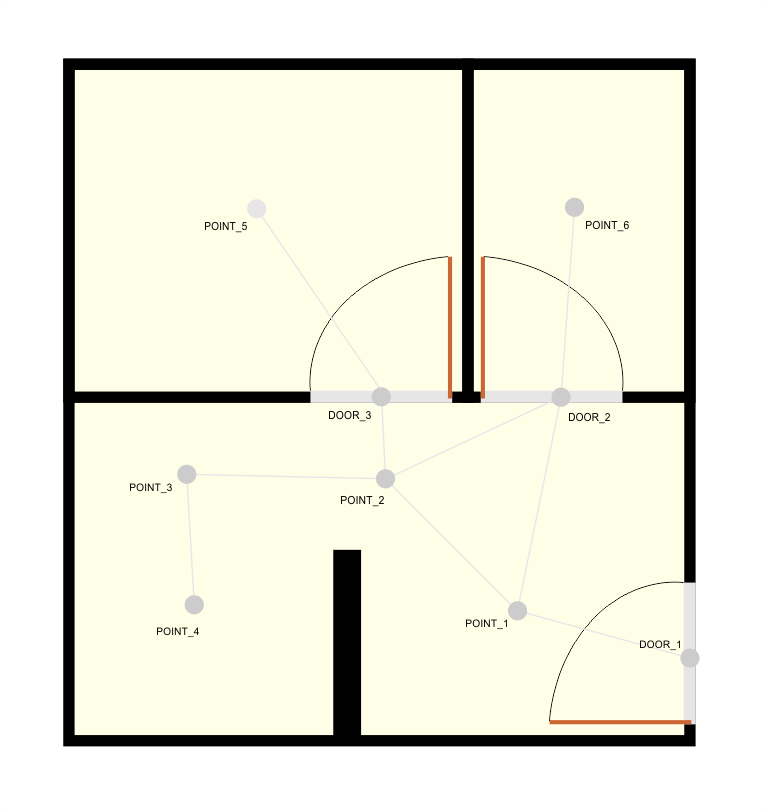
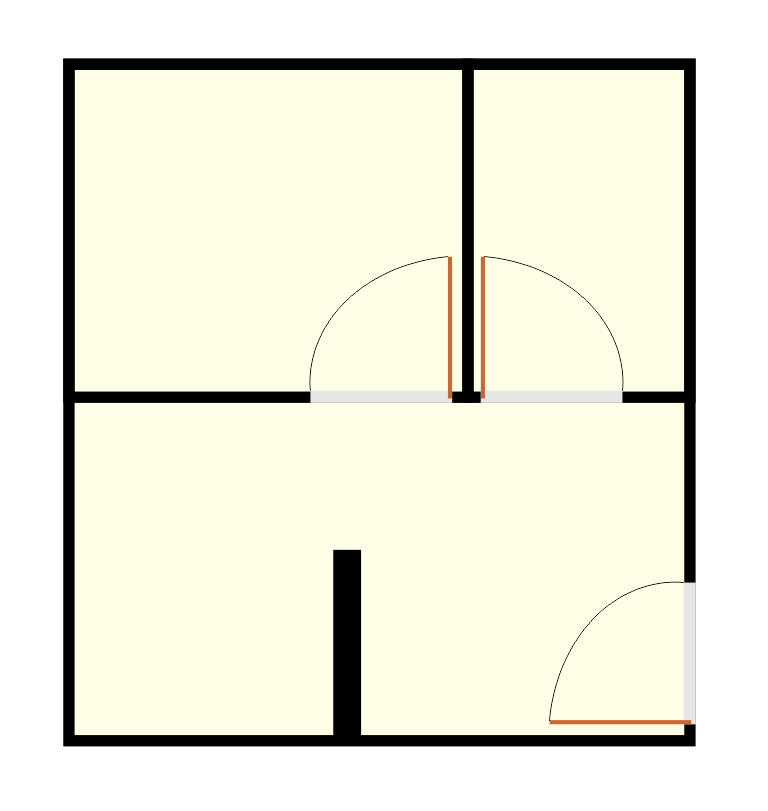
[cod] Improving simulation clock

diff --git a/models/environment.py b/models/environment.py
@@ -28,7 +28,7 @@ class Environment(object):
             self.y2,
             fill=None,
             dash=(4,3),
-            outline='red',
+            outline='',
             width=2,
             tags=("env","env_"+str(self.name))
         )
@@ -39,24 +39,25 @@ class Environment(object):
                 self.limits_area,
                 outline=color
             )
-            # if color != 'red':
-            #     self.simulation_core.canvas.itemconfig(
-            #         self.limits_area,
-            #         fill=color
-            #     )
-            #     self.simulation_core.canvas.itemconfig(
-            #         self.limits_area,
-            #         stipple='gray12' # You can use 'gray75', 'gray50', 'gray25' and 'gray12'
-            #     )
-            # else:
-            #     self.simulation_core.canvas.itemconfig(
-            #         self.limits_area,
-            #         fill=''
-            #     )
-            #     self.simulation_core.canvas.itemconfig(
-            #         self.limits_area,
-            #         stipple=''
-            #     )
+            if color == '':
+                 
+                self.simulation_core.canvas.itemconfig(
+                    self.limits_area,
+                    fill='black'
+                )
+                self.simulation_core.canvas.itemconfig(
+                    self.limits_area,
+                    stipple='gray50' # You can use 'gray75', 'gray50', 'gray25' and 'gray12'
+                )
+            else:
+                self.simulation_core.canvas.itemconfig(
+                    self.limits_area,
+                    fill=''
+                )
+                self.simulation_core.canvas.itemconfig(
+                    self.limits_area,
+                    stipple=''
+                )
                 
 
     def check_for_human_inside_environment_area(self):
@@ -78,7 +79,7 @@ class Environment(object):
             if qt_humans > 0:
                 self.change_limits_area_color('#AAFF00')
             else:
-                self.change_limits_area_color('red')
+                self.change_limits_area_color('')
 
 
     def load_all_machines_inside_environment_area(self):

diff --git a/core/simulationcore.py b/core/simulationcore.py
@@ -15,7 +15,9 @@ from tkextrafont import Font
 class InternalClock(object):
     def __init__(self, simulation_core):
         self.simulation_core = simulation_core
-        self.elapsed_seconds = 0
+        self.start_time = 28800 # start clock time as seconds
+        self.elapsed_seconds = self.start_time
+        self.elapsed_days = 0
         self.time_speed_multiplier = 1
         self.main_loop = None
         
@@ -40,7 +42,12 @@ class InternalClock(object):
         return original_seconds/self.time_speed_multiplier
         
     def get_humanized_time(self):
-        return f"{str(datetime.timedelta(seconds=self.elapsed_seconds))}"
+        if self.elapsed_seconds == 86399: # 23h 59min in seconds
+            self.elapsed_days +=1
+            self.elapsed_seconds=0
+            return f"{self.elapsed_days} days - {str(datetime.timedelta(seconds=self.elapsed_seconds))}"
+        
+        return f"{self.elapsed_days} days - {str(datetime.timedelta(seconds=self.elapsed_seconds))}"
     
     def update_speed_menu_label(self):
         self.simulation_core.simulation_screen.menubar.entryconfigure(

diff --git a/components/links.py b/components/links.py
@@ -71,13 +71,13 @@ class Link(object):
                     delay = self.simulation_core.clock.get_internal_time_unit(delay)
                     
                     if sender == self.network_interface_1:
-                        self.animate_package(packet)
+                        # self.animate_package(packet)
                         self.blink_arrow(packet.color)
                         packet.trace.append(self.network_interface_2)
                         reactor.callLater(delay, self.network_interface_2.machine.app.in_buffer.append, packet)
                         self.simulation_core.updateEventsCounter(f"{self.name} - Transmiting packet {packet.id} delay {delay}ms")
                     elif sender == self.network_interface_2:
-                        self.animate_package(packet)
+                        # self.animate_package(packet)
                         self.blink_arrow(packet.color)
                         packet.trace.append(self.network_interface_1)
                         reactor.callLater(delay, self.network_interface_1.machine.app.in_buffer.append, packet)
